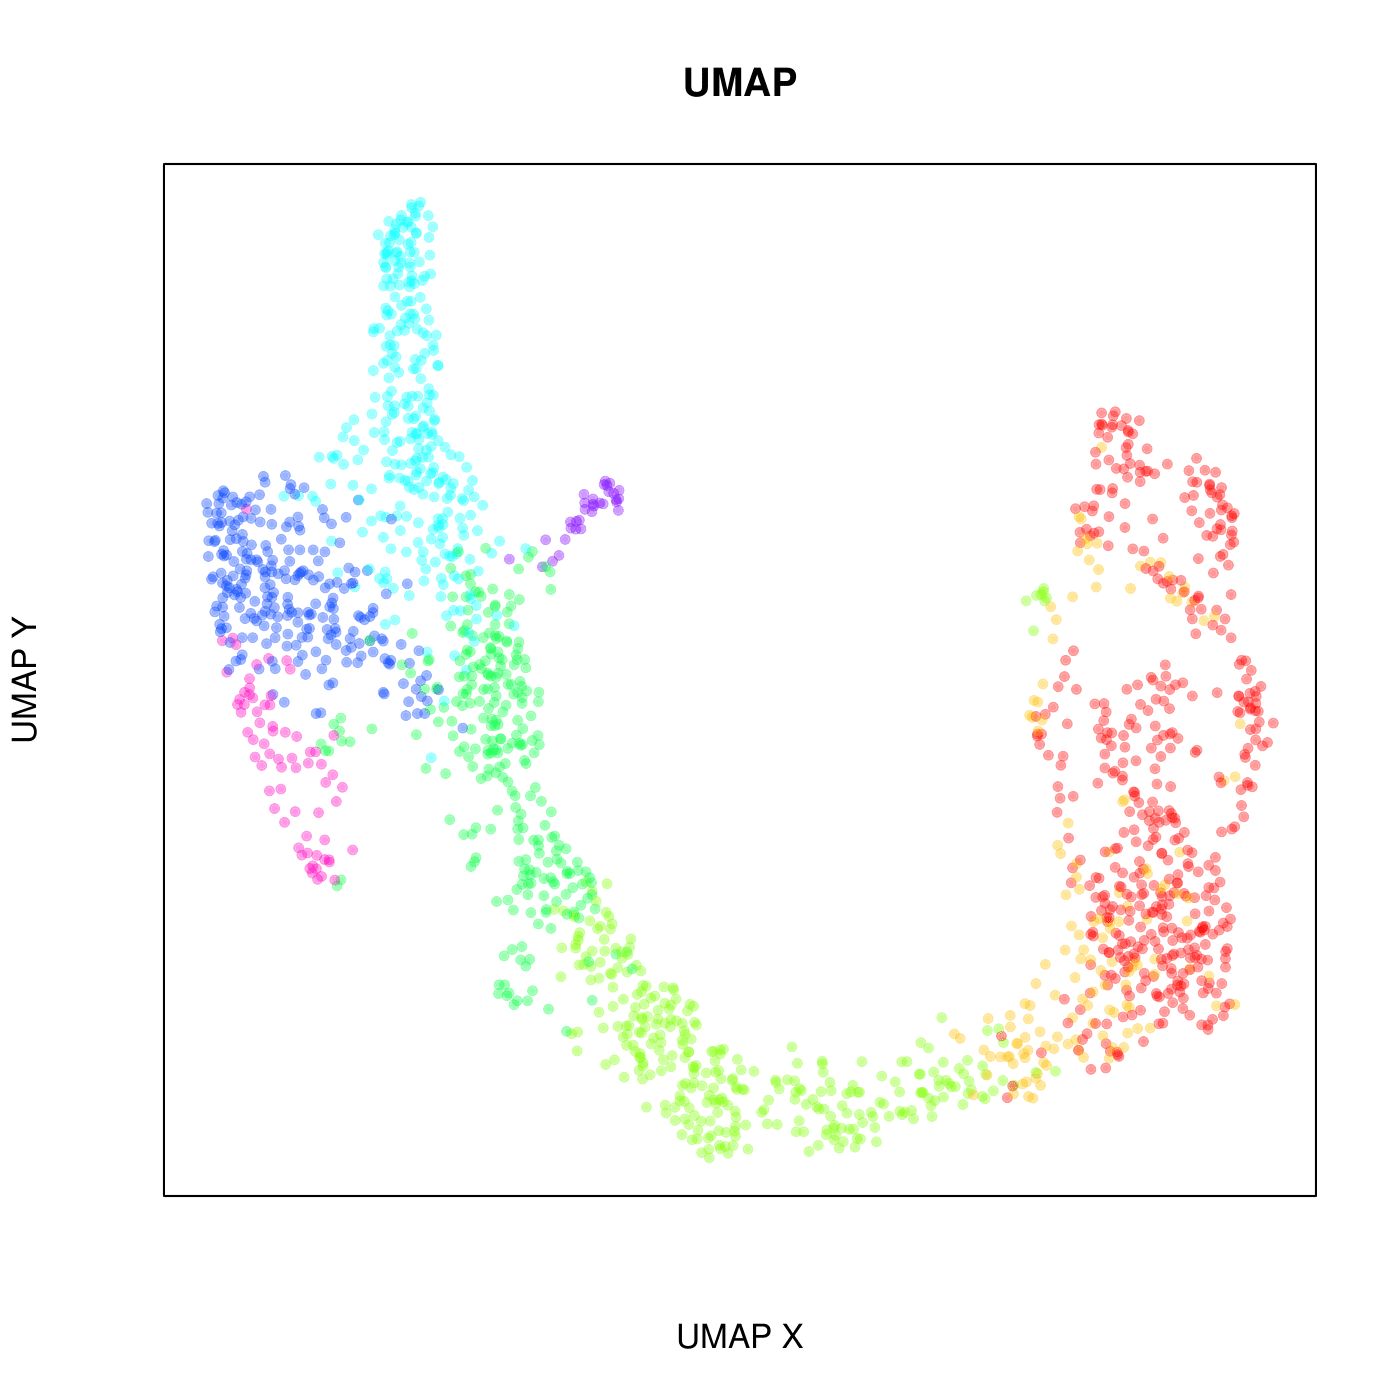
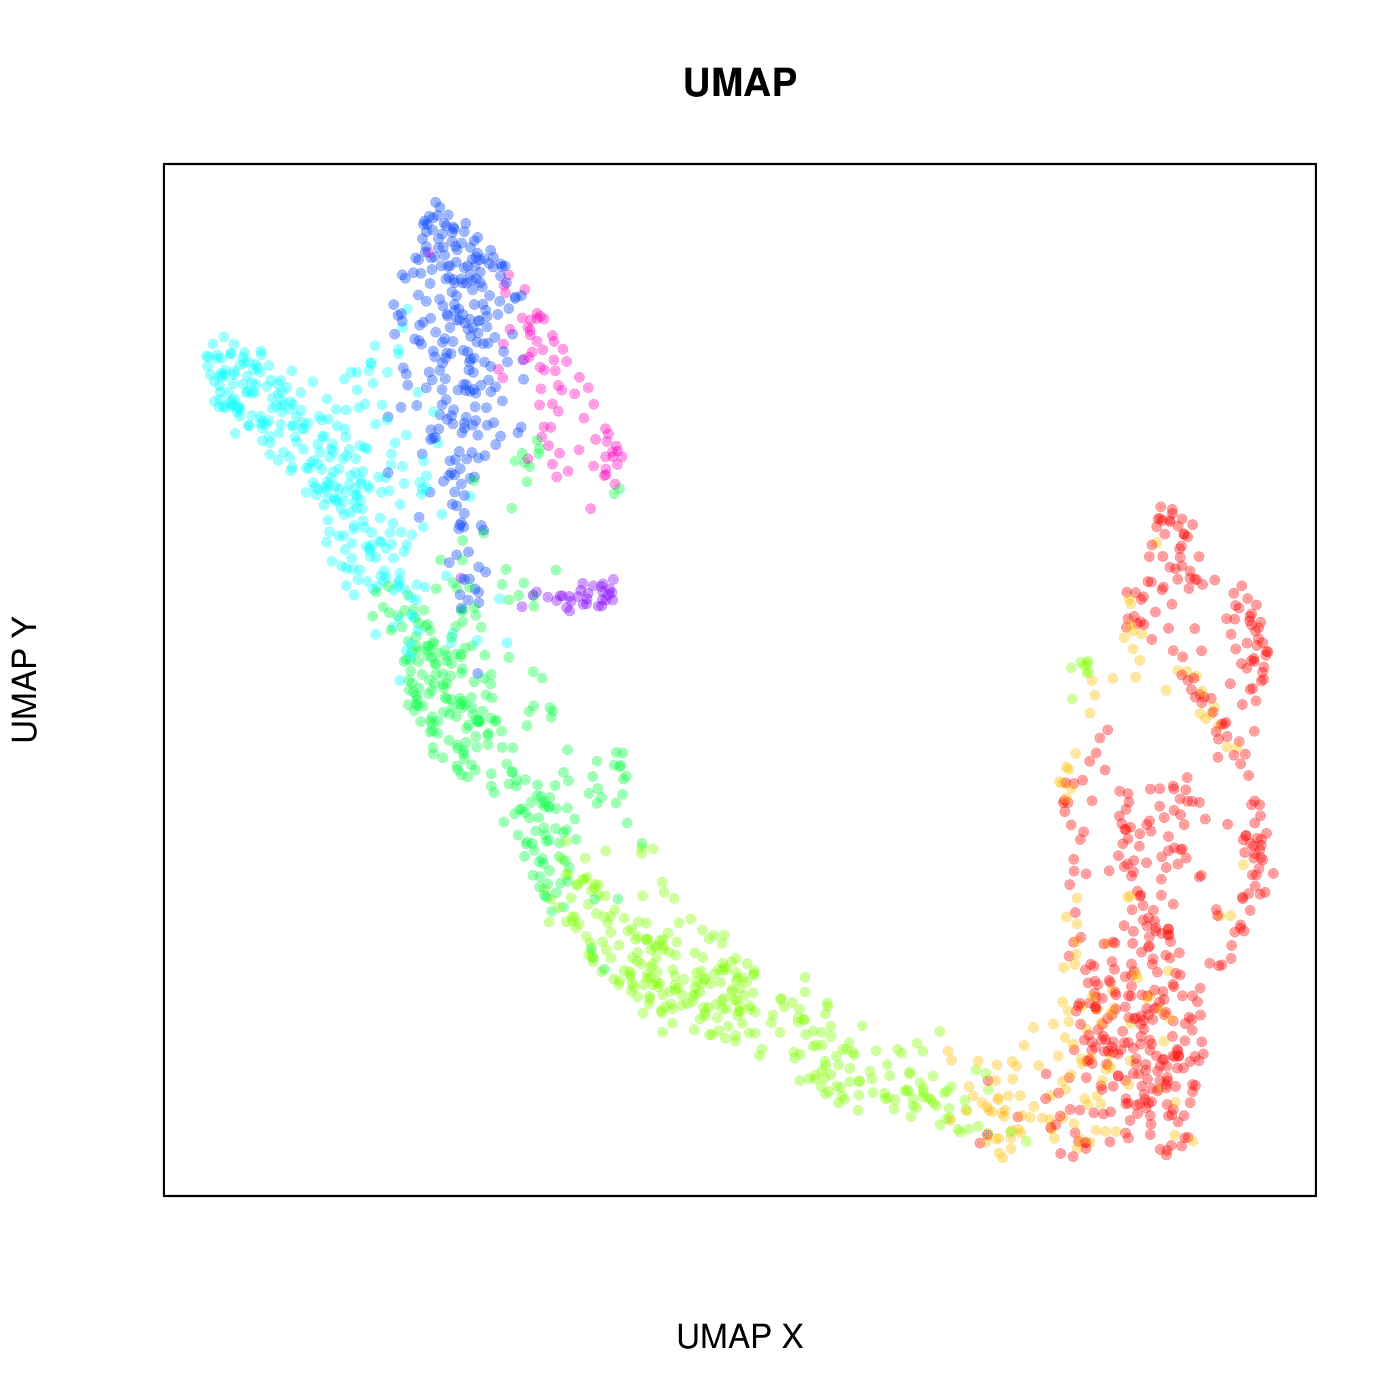
Update vignette

Changed region(s): [[0.1229, 0.1229, 0.9214, 0.8293]]

diff --git a/arpan/vignette.md b/arpan/vignette.md
@@ -121,7 +121,7 @@ veloviz = buildVeloviz(
   nPCs = 20,
   center = TRUE,
   scale = TRUE,
-  k = 5,
+  k = 20,
   similarity.threshold = 0.25,
   distance.weight = 1,
   distance.threshold = 0.5,
@@ -196,7 +196,7 @@ Now we can input the NN graph from VeloViz into UMAP.
 
 ```r
 # Convert veloviz$graph (igraph type) to an idx & dist representation
-nnGraph <- as_nn_graph(graph = veloviz$graph, k = 5)
+nnGraph <- as_nn_graph(graph = veloviz$graph, k = 20)
 
 # input nnGraph to UMAP and plot
 set.seed(0)
@@ -212,22 +212,23 @@ par(mfrow = c(1,3))
 
 # VeloViz
 plotEmbedding(emb.veloviz, 
-              groups=clusters[rownames(emb.veloviz)], 
-              main='VeloViz')
+              colors=cell.cols[rownames(emb.veloviz)],
+              frame.plot = TRUE, xaxt = 'n', yaxt = 'n',
+              main='VeloViz', xlab="VeloViz X", ylab = "VeloViz Y")
 
 # UMAP on PC data
-plotEmbedding(emb.umap, colors = cell.cols, 
-              main='UMAP',
+plotEmbedding(emb.umap, colors = cell.cols, main='UMAP',
+              frame.plot = TRUE, xaxt = 'n', yaxt = 'n',
               xlab = "UMAP X", ylab = "UMAP Y")
               
 # UMAP initialized with VeloViz nearest neighbors
 plotEmbedding(emb.umapVelo,
               colors = cell.cols[rownames(emb.umapVelo)],
-              main = 'UMAP (initialized with VeloViz)', 
-              xlab = "UMAP X", ylab = "UMAP Y")
+              frame.plot = TRUE, xaxt = 'n', yaxt = 'n',
+              main = 'UMAP with VeloViz', xlab = "UMAP X", ylab = "UMAP Y")
 ```
 
-Veloviz                    |  UMAP                     |  UMAP (initialized with VeloViz)
+Veloviz                    |  UMAP                     |  UMAP with VeloViz
 :-------------------------:|:-------------------------:|:-------------------------:
 ![](umap_files/figure-markdown_strict/pancreasVeloviz.png) | ![](umap_files/figure-markdown_strict/pancreasUMAP.png) | ![](umap_files/figure-markdown_strict/pancreasUMAPVelo.png) 
 
@@ -239,29 +240,31 @@ par(mfrow = c(1,3))
 
 # show velocities
 show.velocity.on.embedding.cor(scale(emb.veloviz), vel,
-                               n=50,
+                               n = 50,
                                scale='sqrt',
                                cex=1, arrow.scale=1, show.grid.flow=TRUE,
-                               min.grid.cell.mass=0.5, grid.n=30, 
-                               arrow.lwd=1, do.par=FF, 
-                               cell.colors=cell.cols, main='VeloViz')
+                               min.grid.cell.mass=0.5, grid.n=30, arrow.lwd=1, do.par = F,
+                               cell.colors=cell.cols[rownames(emb.veloviz)],
+                               frame.plot = TRUE, xaxt = 'n', yaxt = 'n',
+                               main='VeloViz', xlab="VeloViz X", ylab='VeloViz Y')
 
 show.velocity.on.embedding.cor(scale(emb.umap), vel,
-                               n=50,
+                               n = 50,
                                scale='sqrt',
                                cex=1, arrow.scale=1, show.grid.flow=TRUE,
-                               min.grid.cell.mass=0.5, grid.n=30, 
-                               arrow.lwd=1, do.par=F,
-                               cell.colors=cell.cols, main='UMAP')
+                               min.grid.cell.mass=0.5, grid.n=30, arrow.lwd=1, do.par = F,
+                               cell.colors=cell.cols,
+                               frame.plot = TRUE, xaxt = 'n', yaxt = 'n'
+                               main='UMAP', xlab="UMAP X", ylab='UMAP Y')
 
 show.velocity.on.embedding.cor(scale(emb.umapVelo), vel,
-                               n=50,
+                               n = 50,
                                scale='sqrt',
                                cex=1, arrow.scale=1, show.grid.flow=TRUE,
-                               min.grid.cell.mass=0.5, grid.n=30, 
-                               arrow.lwd=1, do.par=F,
-                               cell.colors=cell.cols[rownames(emb.umapVelo)],
-                               main='UMAP (initialized with VeloViz)')
+                               min.grid.cell.mass=0.5, grid.n=30, arrow.lwd=1, do.par = F,
+                               cell.colors = cell.cols[rownames(emb.umapVelo)],
+                               frame.plot = TRUE, xaxt = 'n', yaxt = 'n', 
+                               main='UMAP with VeloViz', xlab="UMAP X", ylab='UMAP Y')
 ```
 
 Veloviz                    |  UMAP                     |  UMAP (initialized with VeloViz)
